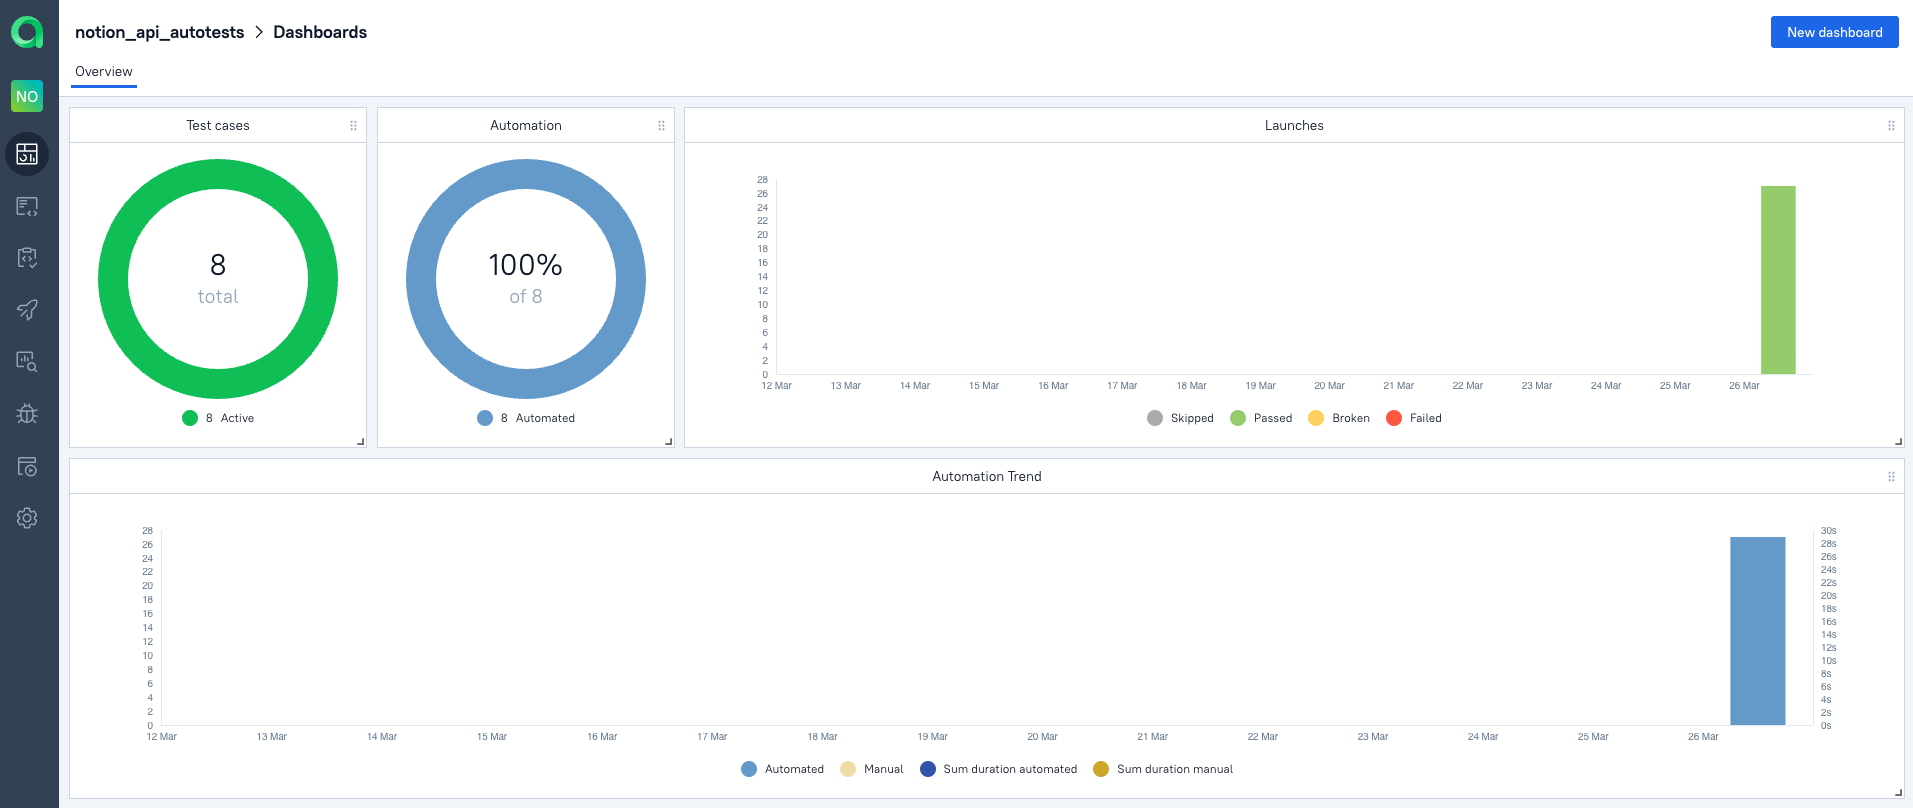
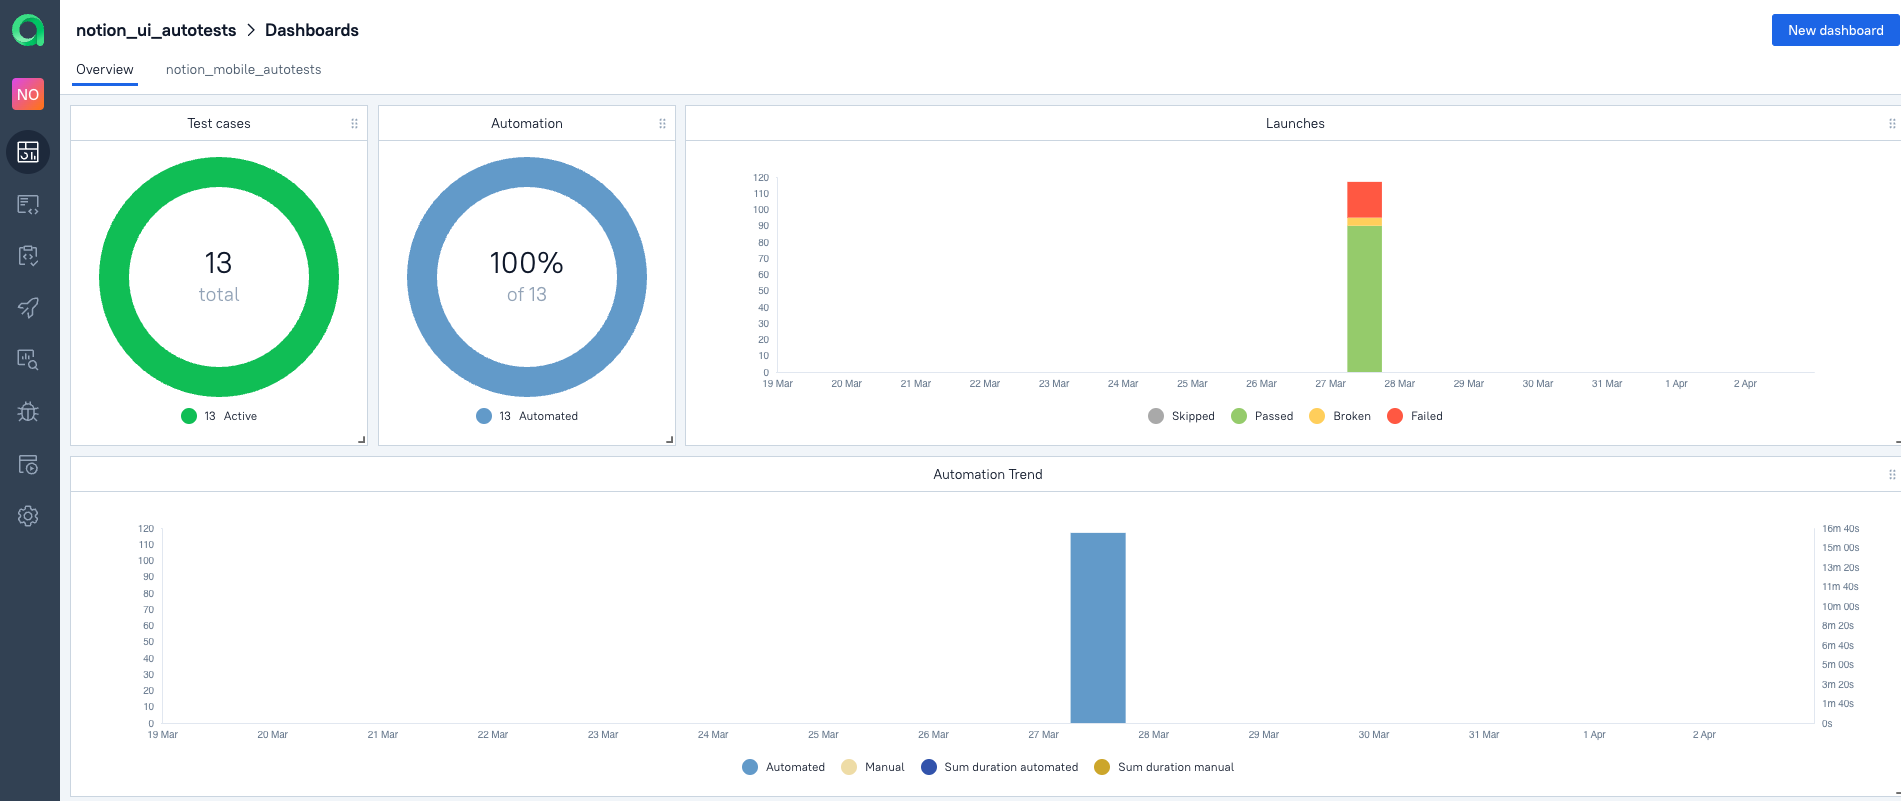
add right information in README.md

diff --git a/README.md b/README.md
@@ -7,13 +7,16 @@ Notion is a freemium productivity and note-taking web application developed by N
 <!-- Technology -->
 
 ### Tools and a technologies
+### Используемые технологии
 <p  align="center">
   <code><img width="5%" title="Pycharm" src="notion_autotest_web/resources/images/logo_stacks/pycharm.png"></code>
   <code><img width="5%" title="Python" src="notion_autotest_web/resources/images/logo_stacks/python.png"></code>
   <code><img width="5%" title="Pytest" src="notion_autotest_web/resources/images/logo_stacks/pytest.png"></code>
-  <code><img width="5%" title="Requests" src="notion_autotest_web/resources/images/logo_stacks/requests.png"></code>
+  <code><img width="5%" title="Selene" src="notion_autotest_web/resources/images/logo_stacks/selene.png"></code>
+  <code><img width="5%" title="Selenium" src="notion_autotest_web/resources/images/logo_stacks/selenium.png"></code>
   <code><img width="5%" title="GitHub" src="notion_autotest_web/resources/images/logo_stacks/github.png"></code>
   <code><img width="5%" title="Jenkins" src="notion_autotest_web/resources/images/logo_stacks/jenkins.png"></code>
+  <code><img width="5%" title="Selenoid" src="notion_autotest_web/resources/images/logo_stacks/selenoid.png"></code>
   <code><img width="5%" title="Allure Report" src="notion_autotest_web/resources/images/logo_stacks/allure_report.png"></code>
   <code><img width="5%" title="Allure TestOps" src="notion_autotest_web/resources/images/logo_stacks/allure_testops.png"></code>
   <code><img width="5%" title="Jira" src="notion_autotest_web/resources/images/logo_stacks/jira.png"></code>
@@ -62,7 +65,7 @@ Notion is a freemium productivity and note-taking web application developed by N
 <!-- Allure TestOps -->
 
 ### <img width="3%" title="Allure TestOps" src="notion_autotest_web/resources/images/logo_stacks/allure_testops.png"> Allure TestOps Integration
-### [Dashboard](https://allure.autotests.cloud/project/2086/dashboards)
+### [Dashboard](https://allure.autotests.cloud/project/2092/dashboards)
 ##### Results are uploaded there and the automated test-cases can be automatically updated accordingly to the recent changes in the code.
 ![This is an image](notion_autotest_web/resources/images/screenshots/allure_testops_dashboard.png)
 
